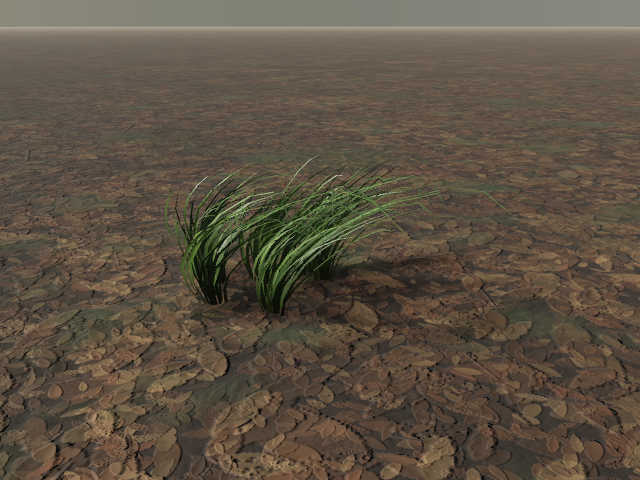
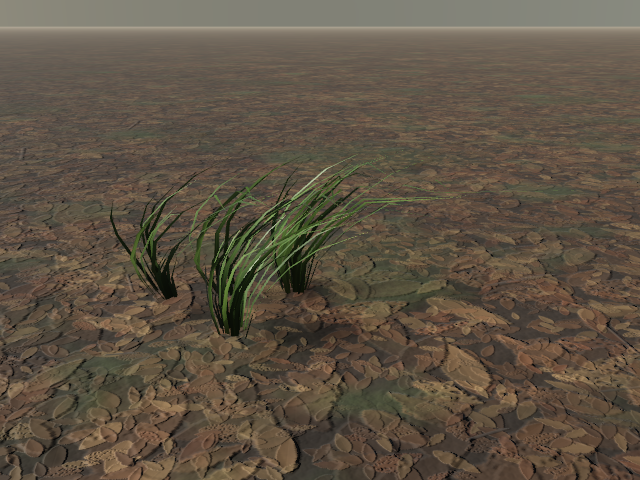
Perf B13: center eelgrass-bed and staircases on X/Z, regenerate thumbnails

diff --git a/Sources/RealLibrary/Structures/Interior/UShapedStaircase.swift b/Sources/RealLibrary/Structures/Interior/UShapedStaircase.swift
@@ -4,7 +4,7 @@ import Foundation
 /// U-shaped staircase with a half landing, 2.1 x 3.0 x 3.6 m footprint and rise. Eleven risers climb 2.06 m along
 /// -Z beside a 0.1 m stair well, a 2.1 x 1.0 m oak landing turns the run, and five more climb back along +Z
 /// (16 risers of 187.5 mm in all). Wall skirts on the outer sides, cut stringers, balusters and an oak handrail
-/// on the well side, corner newel carried to the floor. Origin bottom-front center.
+/// on the well side, corner newel carried to the floor. Origin bottom center.
 public struct UShapedStaircase: RealAsset {
     public static let id = "u-shaped-staircase"
     public static let summary = "U-shaped staircase, 16 risers, 3.0 m rise, half landing: oak treads and landing, painted risers, wall and cut stringers, balusters, handrail."
@@ -50,6 +50,6 @@ public struct UShapedStaircase: RealAsset {
     }
 
     public func build(seed: UInt64) -> LODModel {
-        LODModel(levels: [model(lod: 0, seed: seed), model(lod: 1, seed: seed)], switchDistances: [8])
+        LODModel(levels: [model(lod: 0, seed: seed).centeredXZ(), model(lod: 1, seed: seed).centeredXZ()], switchDistances: [8])
     }
 }

diff --git a/Sources/RealLibrary/Structures/Interior/Staircase.swift b/Sources/RealLibrary/Structures/Interior/Staircase.swift
@@ -4,7 +4,7 @@ import Foundation
 /// Straight residential staircase: 16 risers of 187.5 mm and 15 treads of 260 mm climb 3.0 m floor to floor over
 /// a 4.0 m run. Oak treads with nosing and scotia, painted risers, a closed skirt stringer on the wall side, a cut
 /// stringer and center carriage, turned balusters, an oak handrail at 0.9 m and newels with ball finials on the open
-/// side. Origin bottom-front center; the flight climbs along -Z.
+/// side. Origin bottom center; the flight climbs along -Z.
 public struct Staircase: RealAsset {
     public static let id = "staircase"
     public static let summary = "Straight staircase, 16 risers, 3.0 m rise over 4.0 m: oak treads, painted risers, skirt and cut stringers, balusters, handrail and newels."
@@ -30,6 +30,6 @@ public struct Staircase: RealAsset {
     }
 
     public func build(seed: UInt64) -> LODModel {
-        LODModel(levels: [flight(lod: 0).build(seed: seed), flight(lod: 1).build(seed: seed)], switchDistances: [8])
+        LODModel(levels: [flight(lod: 0).build(seed: seed).centeredXZ(), flight(lod: 1).build(seed: seed).centeredXZ()], switchDistances: [8])
     }
 }

diff --git a/Sources/RealLibrary/Structures/Interior/LShapedStaircase.swift b/Sources/RealLibrary/Structures/Interior/LShapedStaircase.swift
@@ -5,7 +5,7 @@ import Foundation
 /// -Z to a square oak landing; six more turn right along +X to the upper floor (16 risers of 187.5 mm in all, wall
 /// stringers on the outer sides, cut stringers, balusters and an oak handrail on the inside of the turn, a corner
 /// newel carried to the floor). The 0.8 m flight width is what the 16 treads of 0.25 m or more allow in this
-/// footprint. Origin bottom-front center.
+/// footprint. Origin bottom center.
 public struct LShapedStaircase: RealAsset {
     public static let id = "l-shaped-staircase"
     public static let summary = "L-shaped staircase, 16 risers, 3.0 m rise, quarter landing: oak treads and landing, painted risers, wall and cut stringers, balusters, handrail."
@@ -56,6 +56,6 @@ public struct LShapedStaircase: RealAsset {
     }
 
     public func build(seed: UInt64) -> LODModel {
-        LODModel(levels: [model(lod: 0, seed: seed), model(lod: 1, seed: seed)], switchDistances: [8])
+        LODModel(levels: [model(lod: 0, seed: seed).centeredXZ(), model(lod: 1, seed: seed).centeredXZ()], switchDistances: [8])
     }
 }

diff --git a/Sources/RealLibrary/Structures/Interior/StairKit.swift b/Sources/RealLibrary/Structures/Interior/StairKit.swift
@@ -246,3 +246,11 @@ struct StairLanding {
         return m
     }
 }
+
+extension Model {
+    /// Slides the model so its bounds are centered on X/Z (Y unchanged).
+    func centeredXZ() -> Model {
+        let b = bounds, c = (b.min + b.max) / 2
+        return transformed(Xform(translation: V3(-c.x, 0, -c.z)))
+    }
+}

diff --git a/Sources/RealLibrary/Nature/Plants/EelgrassBed.swift b/Sources/RealLibrary/Nature/Plants/EelgrassBed.swift
@@ -50,6 +50,6 @@ public struct EelgrassBed: RealAsset {
             m0.add(s0); m1.add(s1)
         }
         PlantKit.finish(&m0); PlantKit.finish(&m1)
-        return LODModel(levels: [m0, m1], switchDistances: [12])
+        return LODModel(levels: [m0.centeredXZ(), m1.centeredXZ()], switchDistances: [12])
     }
 }

diff --git a/docs/perf-roadmap.md b/docs/perf-roadmap.md
@@ -362,6 +362,7 @@ Items, in order. Each lists the measure that proves it and the sim bench that cl
     Phase 5 gate needs 0 frames > 22 ms. Proof: per-frame log with system timings around the spike.
 12. B12 On-head GPU trace (phase 0 step 1). Sizes phase 4; device only.
 13. B13 Test debt: GPUSmoke overcast sky (0.597 vs < 0.472), AssetContractTests eelgrass-bed centering.
+    - Status: AssetContractTests 4 failures -> 0 (eelgrass-bed, staircase, l-/u-shaped-staircase recentered on X/Z); offline; sim validation pending. GPUSmoke overcast still 0.597 vs < 0.472: clear peak 2.359 (sky glow; 256px misses the sun disk), overcast peak 0.597 is cloud-deck brightness (deckLit x1.7), no sun disk present; threshold 0.2x clear is the mismatch, left unchanged.
     Both fail on HEAD. Staircase centering now passes.
 
 Celebrated sim-proven milestones live in `docs/perf-milestones.json`.

diff --git a/notes/QUEUE.md b/notes/QUEUE.md
@@ -15,3 +15,4 @@ B6 | perf-b6 | PRURL | dropped offline: hospital 876->719 draws with proxy at LO
 B6 | perf-b6 | https://github.com/hunterh37/RealityHD/pull/104 | dropped offline: hospital 876->719 draws with proxy at LOD0 (need <500), loses LOD0 hover | none
 B8 | perf-b8 | PR_URL | dropped offline: fence field 416k->335k only with normals unchecked, 418k with checks (need <250k) | none
 B8 | perf-b8 | https://github.com/hunterh37/RealityHD/pull/105 | dropped offline: fence field 416k->335k only with normals unchecked, 418k with checks (need <250k) | none
+B13 | perf-b13 | PRURL | AssetContractTests 4 fails -> 0; GPUSmoke overcast 0.597 vs <0.472 unresolved (deck brightness, not sun) | none
